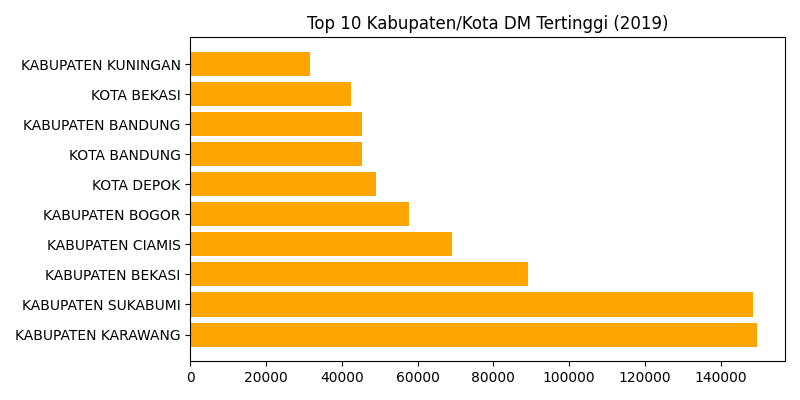
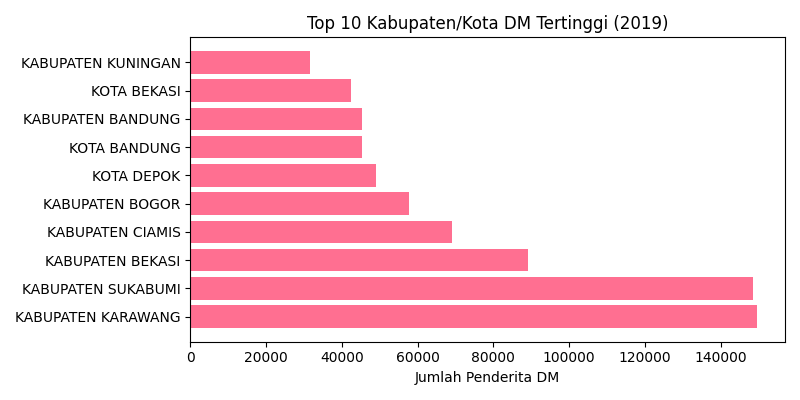
Update dashboard dan visualisasi

diff --git a/templates/dashboard.html b/templates/dashboard.html
@@ -8,97 +8,75 @@
       body {
         font-family: "Segoe UI", Arial, sans-serif;
         margin: 0;
-        padding: 0;
         background: linear-gradient(135deg, #ff9a9e, #a18cd1, #6a85b6);
-        min-height: 100vh;
       }
-
       .container {
         padding: 25px;
       }
-
       h1 {
         color: white;
         margin-bottom: 5px;
       }
-
       .subtitle {
         color: #f1f1f1;
         margin-bottom: 25px;
       }
-
       .card {
         background: white;
-        border-radius: 12px;
+        border-radius: 14px;
         padding: 20px;
         margin-bottom: 25px;
-        box-shadow: 0 8px 20px rgba(0, 0, 0, 0.15);
+        box-shadow: 0 10px 25px rgba(0, 0, 0, 0.15);
       }
-
       .summary {
         display: grid;
         grid-template-columns: repeat(auto-fit, minmax(200px, 1fr));
         gap: 15px;
       }
-
       .summary-box {
-        background: linear-gradient(135deg, #a18cd1, #fbc2eb);
+        background: linear-gradient(135deg, #ff6f91, #845ec2);
         color: white;
         padding: 15px;
-        border-radius: 10px;
+        border-radius: 12px;
         text-align: center;
         font-weight: bold;
       }
-
       table {
         border-collapse: collapse;
         width: 100%;
-        font-size: 13px;
+        font-size: 12px;
       }
-
       th,
       td {
         border: 1px solid #ddd;
         padding: 6px;
       }
-
       th {
         background: linear-gradient(135deg, #6a85b6, #a18cd1);
         color: white;
         position: sticky;
         top: 0;
       }
-
       tr:nth-child(even) {
-        background-color: #f9f9f9;
+        background: #f9f9f9;
       }
-
       .scroll {
         max-height: 400px;
         overflow-y: auto;
       }
-
       img {
         max-width: 100%;
-        border-radius: 10px;
+        border-radius: 12px;
         margin-top: 15px;
       }
-
       h3 {
         color: #6a11cb;
-        margin-bottom: 10px;
       }
-
-      .analysis-text {
-        line-height: 1.6;
-        color: #333;
-      }
-
       footer {
         text-align: center;
         color: white;
-        margin-top: 30px;
         font-size: 13px;
+        margin-top: 30px;
       }
     </style>
   </head>
@@ -108,15 +86,13 @@
       <h1>Dashboard Analisis Diabetes Mellitus</h1>
       <div class="subtitle">Data Kesehatan Provinsi Jawa Barat</div>
 
-      <!-- RINGKASAN -->
       <div class="card summary">
         <div class="summary-box">Total Baris<br />{{ total_rows }}</div>
         <div class="summary-box">Total Kolom<br />{{ total_cols }}</div>
-        <div class="summary-box">Kabupaten/Kota<br />{{ total_kab }}</div>
+        <div class="summary-box">Kab/Kota<br />{{ total_kab }}</div>
         <div class="summary-box">Tahun<br />{{ tahun }}</div>
       </div>
 
-      <!-- DATASET -->
       <div class="card">
         <h3>Dataset Lengkap</h3>
         <div class="scroll">
@@ -141,13 +117,11 @@
         </div>
       </div>
 
-      <!-- STATISTIK -->
       <div class="card">
         <h3>Statistik Deskriptif</h3>
         {{ statistik | safe }}
       </div>
 
-      <!-- VISUALISASI -->
       <div class="card">
         <h3>Visualisasi Data</h3>
         <img src="{{ url_for('static', filename='bar.png') }}" />
@@ -155,23 +129,18 @@
         <img src="{{ url_for('static', filename='pie.png') }}" />
       </div>
 
-      <!-- ANALISIS -->
       <div class="card">
         <h3>Analisis Data</h3>
-        <div class="analysis-text">
-          Berdasarkan hasil analisis, terlihat bahwa jumlah penderita Diabetes
-          Mellitus di Jawa Barat bervariasi antar kabupaten/kota. Beberapa
-          wilayah menunjukkan jumlah penderita yang tinggi secara konsisten.
-          <br /><br />
-          Tren total penderita per tahun menunjukkan fluktuasi, namun pada
-          beberapa tahun terakhir terlihat kecenderungan peningkatan kembali.
-          <br /><br />
-          Sebagian besar wilayah berada pada kategori rendah, namun beban
-          penyakit terkonsentrasi pada wilayah tertentu.
-        </div>
+        <p>
+          Dashboard ini menampilkan dataset, statistik deskriptif, dan
+          visualisasi untuk membantu memahami pola penderita Diabetes Mellitus
+          di Jawa Barat. Beberapa wilayah memiliki beban penderita yang lebih
+          tinggi dan tren tahunan menunjukkan fluktuasi dengan kecenderungan
+          meningkat pada tahun terakhir.
+        </p>
       </div>
 
-      <footer>© 2025 | Dashboard Analisis Data Kesehatan Jawa Barat</footer>
+      <footer>© 2025 | Analisis Data Kesehatan Jawa Barat</footer>
     </div>
   </body>
 </html>

diff --git a/app.py b/app.py
@@ -1,8 +1,10 @@
+import os
 from flask import Flask, render_template
 import pandas as pd
 import matplotlib.pyplot as plt
 
 app = Flask(__name__)
+os.makedirs("static", exist_ok=True)
 
 # =====================
 # LOAD DATA
@@ -10,7 +12,7 @@ app = Flask(__name__)
 df = pd.read_csv("data_dm_jabar.csv")
 
 # =====================
-# PREPARE ANALYSIS
+# RINGKASAN
 # =====================
 total_rows = len(df)
 total_cols = len(df.columns)
@@ -24,28 +26,42 @@ statistik = df.describe().round(2).to_html(classes="table", border=0)
 # GRAFIK
 # =====================
 
-# Bar chart (2019)
+# BAR CHART (PINK)
 df_2019 = df[df["tahun"] == 2019]
 top10 = df_2019.sort_values("jumlah_penderita_dm", ascending=False).head(10)
 
 plt.figure(figsize=(8,4))
-plt.barh(top10["nama_kabupaten_kota"], top10["jumlah_penderita_dm"], color="orange")
+plt.barh(
+    top10["nama_kabupaten_kota"],
+    top10["jumlah_penderita_dm"],
+    color="#ff6f91"
+)
+plt.xlabel("Jumlah Penderita DM")
 plt.title("Top 10 Kabupaten/Kota DM Tertinggi (2019)")
 plt.tight_layout()
 plt.savefig("static/bar.png")
 plt.close()
 
-# Line chart (total per tahun)
+# LINE CHART (BIRU)
 per_tahun = df.groupby("tahun")["jumlah_penderita_dm"].sum()
 
 plt.figure(figsize=(6,4))
-plt.plot(per_tahun.index, per_tahun.values, marker="o")
+plt.plot(
+    per_tahun.index,
+    per_tahun.values,
+    marker="o",
+    linewidth=3,
+    color="#4d96ff"
+)
+plt.xlabel("Tahun")
+plt.ylabel("Jumlah Penderita DM")
 plt.title("Total Penderita DM per Tahun")
+plt.grid(alpha=0.3)
 plt.tight_layout()
 plt.savefig("static/line.png")
 plt.close()
 
-# Pie chart (kategori 2019)
+# PIE CHART (PINK–UNGU–BIRU)
 def kategori(x):
     if x > 50000:
         return "Tinggi"
@@ -58,7 +74,13 @@ df_2019["kategori"] = df_2019["jumlah_penderita_dm"].apply(kategori)
 pie = df_2019["kategori"].value_counts()
 
 plt.figure(figsize=(4,4))
-plt.pie(pie, labels=pie.index, autopct="%1.1f%%")
+plt.pie(
+    pie,
+    labels=pie.index,
+    autopct="%1.1f%%",
+    colors=["#4d96ff", "#ff6f91", "#845ec2"],
+    startangle=90
+)
 plt.title("Proporsi Kategori DM (2019)")
 plt.tight_layout()
 plt.savefig("static/pie.png")
